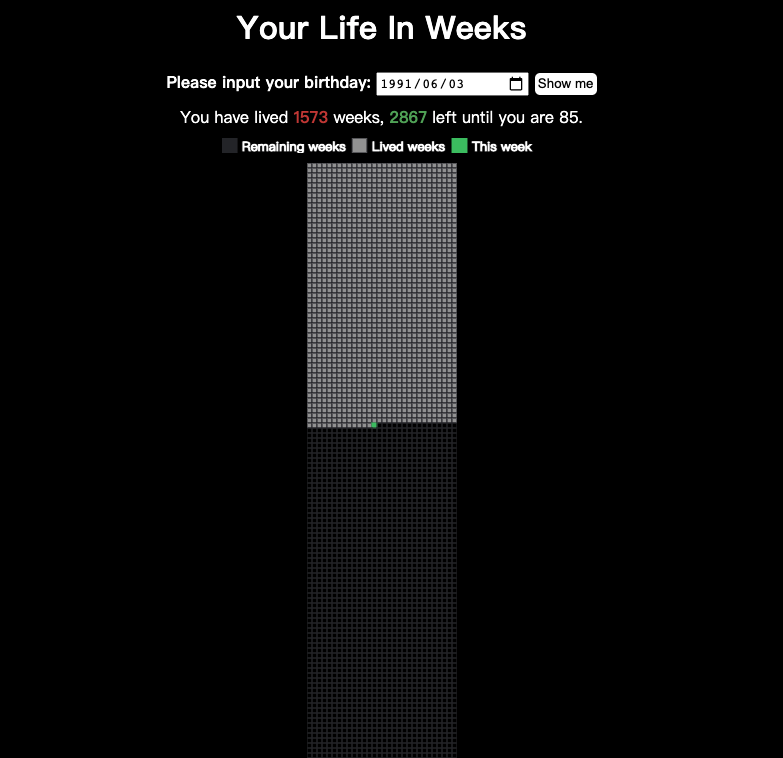
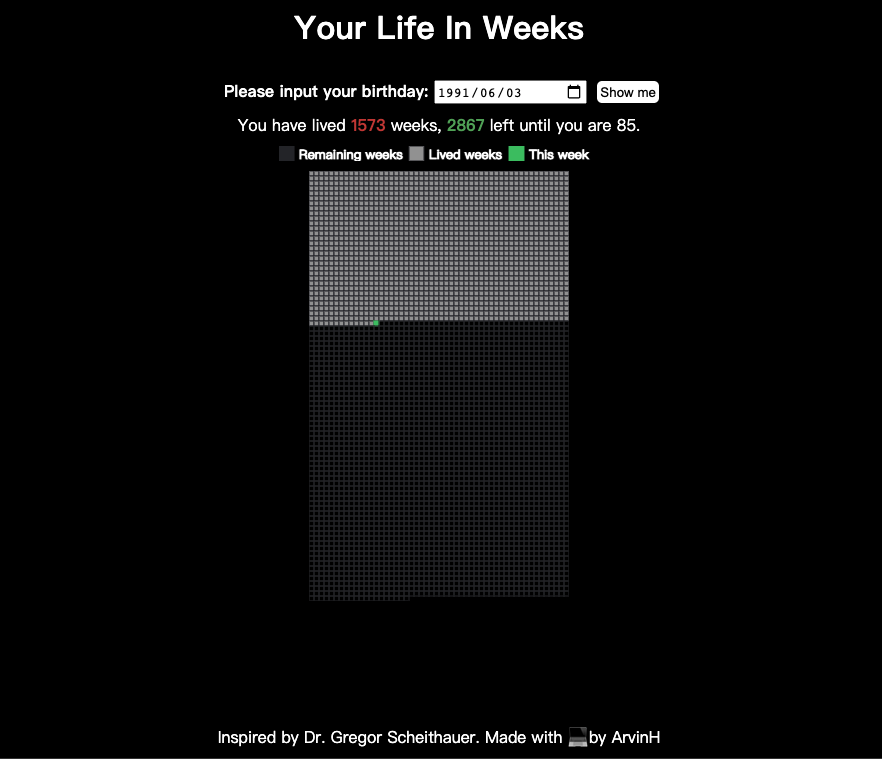
refactor: color and y axis

Changed region(s): [[0.2146, 0.091, 0.7663, 1.0], [0.3065, 0.0, 0.6743, 0.0607]]

diff --git a/src/index.ts b/src/index.ts
@@ -1,3 +1,15 @@
+const livedWeeksColor = {
+  stroke: '#27282d',
+  fill: '#9c9c9c',
+};
+const currentWeeksColor = {
+  stroke: '#3FC463',
+  fill: '#3FC463',
+};
+const restWeeksColor = {
+  stroke: '#27282d',
+  fill: '#27282d',
+};
 const createSVGNode = (
   nodeType: string,
   attributes?: Record<string, string | number>
@@ -17,9 +29,6 @@ const createSVGNode = (
 
 const caculate = (birthDay: string) => {
   const lifeExp = 85;
-  const livedWeeksColor = '';
-  const currentWeeksColor = '';
-  const restWeeksColor = '';
   const today = new Date();
   const [year, month, day] = birthDay.split("-");
   const dayOfBirth = new Date(birthDay);
@@ -38,7 +47,7 @@ const generateLegent = () => {
     // Remaining weeks
     const svgContainter = createSVGNode("svg", { width: 320, height: 15 });
     const gRemaining = createSVGNode("g", { width: 50, height: 15 }); 
-    const remaining = createSVGNode("rect", { x: 0, y: 0, width: 15, height: 15, stroke: '#27282d', fill: '#27282d'});
+    const remaining = createSVGNode("rect", { x: 0, y: 0, width: 15, height: 15, stroke: restWeeksColor.stroke, fill: restWeeksColor.fill});
     const remainingText = createSVGNode("text", { x: 20, y: 12.5, width: 15, height: 15, stroke: '#fff', fill: '#fff', fontSize: '0.8rem' });
     remainingText.innerHTML = 'Remaining weeks';
     gRemaining.appendChild(remaining);
@@ -46,7 +55,7 @@ const generateLegent = () => {
 
     // Lived weeks
     const gLived = createSVGNode("g", { width: 50, height: 15 }); 
-    const lived = createSVGNode("rect", { x: 130, y: 0, width: 15, height: 15, stroke: '#27282d', fill: '#9c9c9c'});
+    const lived = createSVGNode("rect", { x: 130, y: 0, width: 15, height: 15, stroke: livedWeeksColor.stroke, fill: livedWeeksColor.fill });
     const livedText = createSVGNode("text", { x: 150, y: 12.5, width: 15, height: 15, stroke: '#fff', fill: '#fff', fontSize: '0.8rem' });
     livedText.innerHTML = 'Lived weeks';
     gLived.appendChild(lived);
@@ -54,7 +63,7 @@ const generateLegent = () => {
 
     // Current week
     const gCurrent = createSVGNode("g", { width: 50, height: 15 }); 
-    const current = createSVGNode("rect", { x: 230, y: 0, width: 15, height: 15, stroke: '#3FC463', fill: '#3FC463'});
+    const current = createSVGNode("rect", { x: 230, y: 0, width: 15, height: 15, stroke: currentWeeksColor.stroke, fill: currentWeeksColor.fill});
     const currentText = createSVGNode("text", { x: 250, y: 12.5, width: 15, height: 15, stroke: '#fff', fill: '#fff', fontSize: '0.8rem' });
     currentText.innerHTML = 'This week';
     gCurrent.appendChild(current);
@@ -71,7 +80,7 @@ const generateLegent = () => {
 
 const render = (birthDay: string, root: HTMLElement | null) => {
   const blockSize = 5;
-  const rowSize = 30;
+  const rowSize = 52;
   const { totalWeeks, livedWeeks, remainingWeeks } = caculate(birthDay);
   const infoArea = document.querySelector("#info");
   if (infoArea) {

diff --git a/src/style.css b/src/style.css
@@ -65,7 +65,7 @@ body {
 }
 
 #weeks {
-  margin-bottom: 50px;
+  margin-bottom: 80px;
 }
 
 footer {
